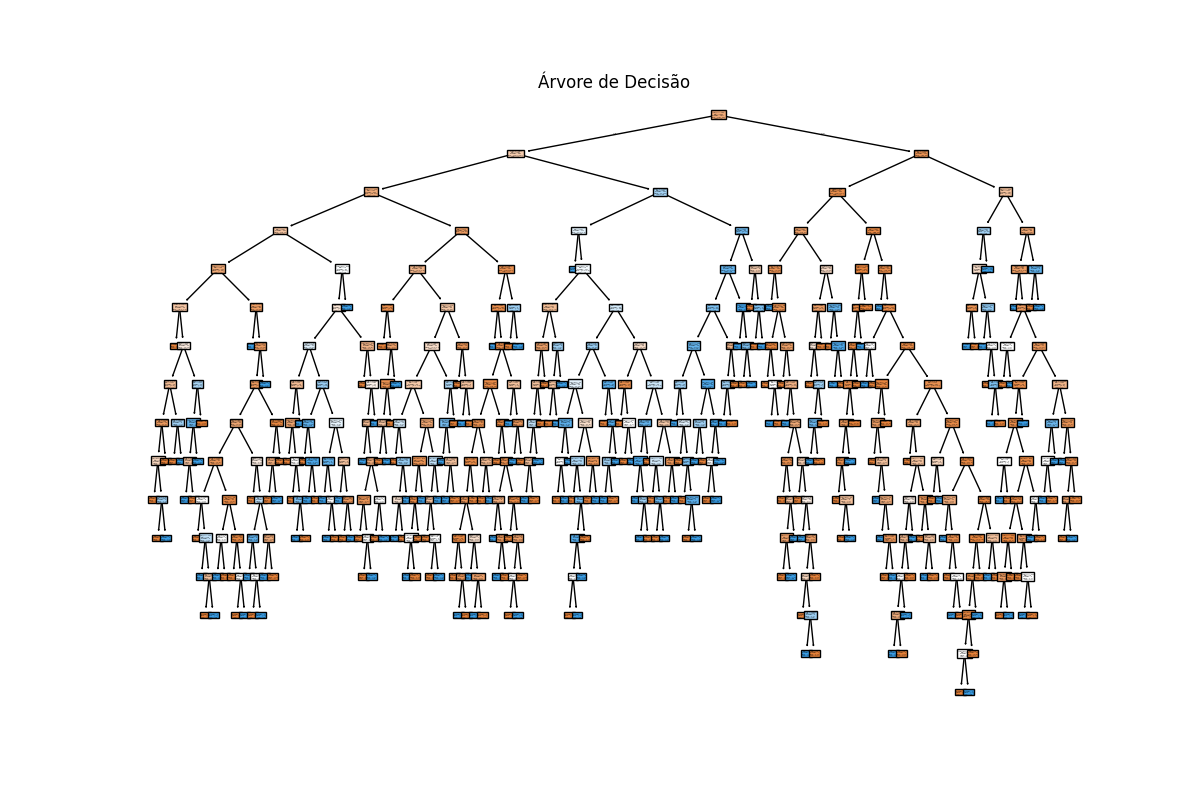
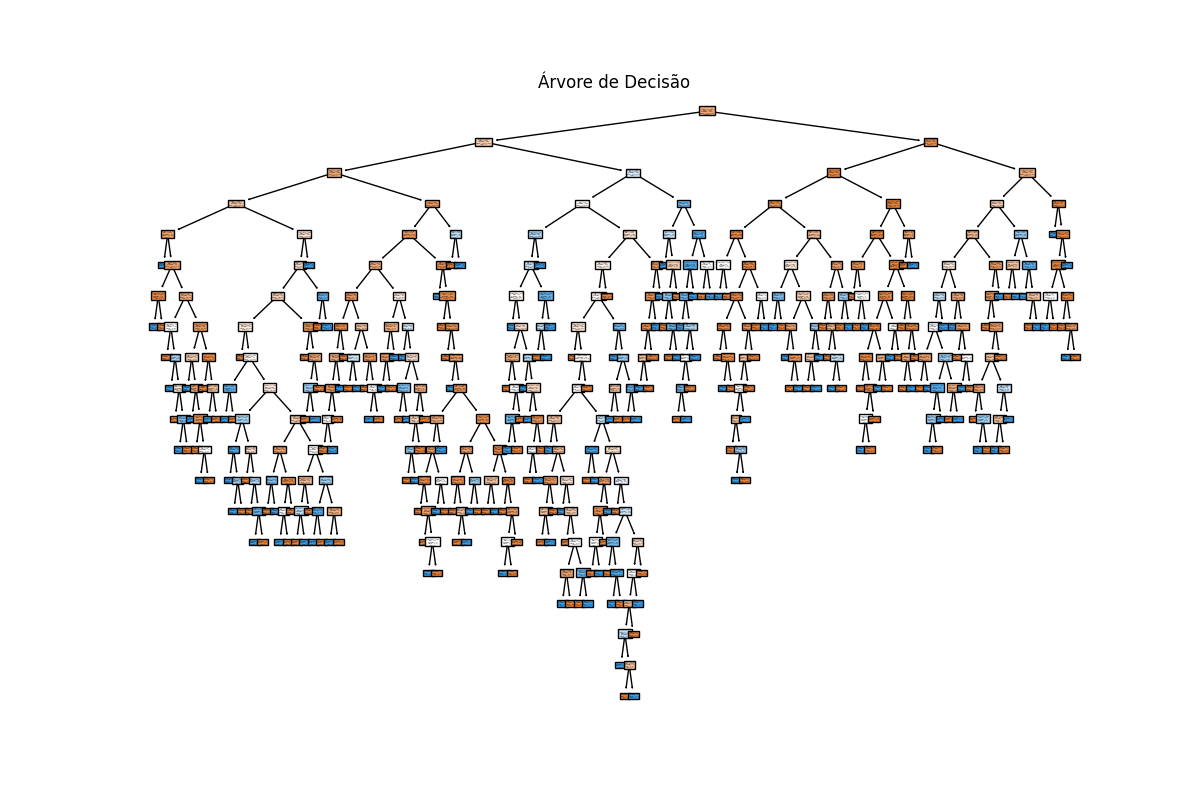
:wrench: feat: Atualização dos outputs

diff --git a/SCRIPTS/floresta_randomica.py b/SCRIPTS/floresta_randomica.py
@@ -7,6 +7,7 @@ from sklearn.ensemble import RandomForestClassifier
 from sklearn.metrics import confusion_matrix, accuracy_score, classification_report
 from sklearn.tree import plot_tree
 import matplotlib.pyplot as plt
+import seaborn as sns
 import os
 
 # Variáveis globais
@@ -42,7 +43,7 @@ y = df['cancel']
 X_train, X_test, y_train, y_test = train_test_split(X, y, test_size=0.3, random_state=42)
 
 # Criar e treinar o modelo de Floresta Randômica
-clf = RandomForestClassifier(n_estimators=100, random_state=42)
+clf = RandomForestClassifier(n_estimators=50, max_depth=10, random_state=42)
 clf.fit(X_train, y_train)
 
 # Previsão
@@ -53,17 +54,26 @@ print("Matriz de Confusão:\n", confusion_matrix(y_test, y_pred))
 print("Acurácia:", accuracy_score(y_test, y_pred))
 print("Relatório de Classificação:\n", classification_report(y_test, y_pred))
 
-# Visualizar uma única árvore da floresta
-plt.figure(figsize=(12, 8))
-plot_tree(clf.estimators_[0], filled=True, feature_names=X.columns, class_names=label_encoders['cancel'].classes_)
-plt.title("Árvore da Floresta Randômica (Primeira Árvore)")
+# Visualizar matriz de confusão
+cm = confusion_matrix(y_test, y_pred)
+plt.figure(figsize=(6, 5))
+sns.heatmap(cm, annot=True, fmt='d', cmap='Blues', xticklabels=label_encoders['cancel'].classes_, yticklabels=label_encoders['cancel'].classes_)
+plt.title('Matriz de Confusão - Floresta Randômica')
+plt.xlabel('Previsão')
+plt.ylabel('Verdadeiro')
 plt.show()
 
-# Plotar importância das features
-plt.figure(figsize=(10, 6))
-feature_importance = pd.Series(clf.feature_importances_, index=X.columns).sort_values(ascending=False)
-feature_importance.plot(kind='bar')
-plt.title("Importância das Features na Floresta Randômica")
-plt.xlabel("Features")
-plt.ylabel("Importância")
-plt.show()
+# # Visualizar uma única árvore da floresta
+# plt.figure(figsize=(12, 8))
+# plot_tree(clf.estimators_[0], filled=True, feature_names=X.columns, class_names=label_encoders['cancel'].classes_)
+# plt.title("Árvore da Floresta Randômica (Primeira Árvore)")
+# plt.show()
+
+# # Plotar importância das features
+# plt.figure(figsize=(10, 6))
+# feature_importance = pd.Series(clf.feature_importances_, index=X.columns).sort_values(ascending=False)
+# feature_importance.plot(kind='bar')
+# plt.title("Importância das Features na Floresta Randômica")
+# plt.xlabel("Features")
+# plt.ylabel("Importância")
+# plt.show()

diff --git a/SCRIPTS/arvore_decisao.py b/SCRIPTS/arvore_decisao.py
@@ -5,6 +5,7 @@ from sklearn.model_selection import train_test_split
 from sklearn.preprocessing import LabelEncoder
 from sklearn.tree import DecisionTreeClassifier, plot_tree
 from sklearn.metrics import confusion_matrix, accuracy_score, classification_report
+import seaborn as sns
 import matplotlib.pyplot as plt
 
 # Carregar o dataset
@@ -18,7 +19,7 @@ base_dir = os.path.abspath(os.path.join(os.getcwd(), ".."))
 db_dir = os.path.join(base_dir, "DADOS")
 os.makedirs(db_dir, exist_ok=True)
 
-file_path = os.path.join(db_dir, 'p33.xlsx')
+file_path = os.path.join(db_dir, 'p33_clean.xlsx')
 df = pd.read_excel(file_path, 'TECAL')
 
 # Exibir as primeiras linhas do dataframe
@@ -36,7 +37,7 @@ for col in CATEGORICAS:
     label_encoders[col] = le
 
 # Separar variáveis independentes e dependentes
-X = df.drop(['id', 'cancel'], axis=1)
+X = df.drop(['cancel'], axis=1)
 y = df['cancel']
 
 # Dividir os dados em treino e teste
@@ -53,6 +54,15 @@ y_pred = clf.predict(X_test)
 print("Matriz de Confusão:\n", confusion_matrix(y_test, y_pred))
 print("Acurácia:", accuracy_score(y_test, y_pred))
 print("Relatório de Classificação:\n", classification_report(y_test, y_pred))
+
+# Visualizar matriz de confusão
+cm = confusion_matrix(y_test, y_pred)
+plt.figure(figsize=(6, 5))
+sns.heatmap(cm, annot=True, fmt='d', cmap='Blues', xticklabels=label_encoders['cancel'].classes_, yticklabels=label_encoders['cancel'].classes_)
+plt.title('Matriz de Confusão - Árvore de Decisão')
+plt.xlabel('Previsão')
+plt.ylabel('Verdadeiro')
+plt.show()
 
 # Visualizar a árvore de decisão
 plt.figure(figsize=(12, 8))

diff --git a/SCRIPTS/svm.py b/SCRIPTS/svm.py
@@ -18,7 +18,7 @@ base_dir = os.path.abspath(os.path.join(os.getcwd(), ".."))
 db_dir = os.path.join(base_dir, "DADOS")
 os.makedirs(db_dir, exist_ok=True)
 
-file_path = os.path.join(db_dir, 'p33.xlsx')
+file_path = os.path.join(db_dir, 'p33_clean.xlsx')
 df = pd.read_excel(file_path, 'TECAL')
 
 # Exibir as primeiras linhas do dataframe
@@ -36,7 +36,7 @@ for col in CATEGORICAS:
     label_encoders[col] = le
 
 # Separar variáveis independentes e dependentes
-X = df.drop(['id', 'cancel'], axis=1)
+X = df.drop(['cancel'], axis=1)
 y = df['cancel']
 
 # Escalonar as features (essencial para SVM)
@@ -47,7 +47,7 @@ X = scaler.fit_transform(X)
 X_train, X_test, y_train, y_test = train_test_split(X, y, test_size=0.3, random_state=42)
 
 # Criar e treinar o modelo SVM
-clf = SVC(kernel='rbf', C=1.0, random_state=42)
+clf = SVC(kernel='rbf', C=1.0, max_iter=100, random_state=42)
 clf.fit(X_train, y_train)
 
 # Previsão
@@ -60,7 +60,7 @@ print("Relatório de Classificação:\n", classification_report(y_test, y_pred))
 
 # 1. Heatmap da Matriz de Confusão
 cm = confusion_matrix(y_test, y_pred)
-plt.figure(figsize=(8, 6))
+plt.figure(figsize=(6,5))
 sns.heatmap(cm, annot=True, fmt='d', cmap='Blues', xticklabels=label_encoders['cancel'].classes_, yticklabels=label_encoders['cancel'].classes_)
 plt.title('Matriz de Confusão - SVM')
 plt.xlabel('Previsão')

diff --git a/SCRIPTS/rede_neural.py b/SCRIPTS/rede_neural.py
@@ -40,7 +40,7 @@ for col in CATEGORICAS:
 # =============================================
 # Separação das variáveis independentes e dependente
 # =============================================
-X = df.drop(['renda', 'debaut', 'cancel'], axis=1)
+X = df.drop(['cancel'], axis=1)
 y = df['cancel']
 
 # Normalização
@@ -57,7 +57,7 @@ mlp = MLPClassifier(
     hidden_layer_sizes=(int(input("Neurons:")),),
     activation='relu', 
     solver='adam',                
-    max_iter=300, 
+    max_iter=100, 
     random_state=42)
 
 mlp.fit(X_train, y_train)
@@ -79,7 +79,7 @@ print(classification_report(y_test, y_pred))
 # Visualização - Heatmap da Matriz de Confusão
 # =============================================
 cm = confusion_matrix(y_test, y_pred)
-plt.figure(figsize=(8, 6))
+plt.figure(figsize=(6,5))
 sns.heatmap(cm, annot=True, fmt='d', cmap='Purples',
             xticklabels=label_encoders['cancel'].classes_,
             yticklabels=label_encoders['cancel'].classes_)

diff --git a/SCRIPTS/knn.py b/SCRIPTS/knn.py
@@ -56,7 +56,7 @@ X = scaler.fit_transform(X)
 X_train, X_test, y_train, y_test = train_test_split(X, y, test_size=0.3, random_state=42)
 
 # Criar e treinar o modelo KNN
-clf = KNeighborsClassifier(n_neighbors=5)
+clf = KNeighborsClassifier(n_neighbors=69)
 clf.fit(X_train, y_train)
 
 # Previsão
@@ -69,9 +69,9 @@ print("Relatório de Classificação:\n", classification_report(y_test, y_pred))
 
 # 1. Heatmap da Matriz de Confusão
 cm = confusion_matrix(y_test, y_pred)
-plt.figure(figsize=(8, 6))
+plt.figure(figsize=(6,5))
 sns.heatmap(cm, annot=True, fmt='d', cmap='Blues', xticklabels=label_encoders['cancel'].classes_, yticklabels=label_encoders['cancel'].classes_)
-plt.title('Matriz de Confusão')
+plt.title('Matriz de Confusão - KNN')
 plt.xlabel('Previsão')
 plt.ylabel('Verdadeiro')
 plt.show()

diff --git a/SCRIPTS/regressao_logistica.py b/SCRIPTS/regressao_logistica.py
@@ -43,7 +43,7 @@ X_train, X_test, y_train, y_test = train_test_split(X, y, test_size=0.2, random_
 
 # 6. Cria e treina o modelo de regressão logística
 #modelo = LogisticRegression()
-modelo = LogisticRegression(class_weight='balanced', max_iter=5000)
+modelo = LogisticRegression(class_weight='balanced', max_iter=5000, C=0.3)
 modelo.fit(X_train, y_train)
 
 # 7. Faz previsões com os dados de teste
@@ -132,7 +132,7 @@ plt.show()
 
 # 1. Heatmap da Matriz de Confusão
 cm = confusion_matrix(y_test, y_pred)
-plt.figure(figsize=(8, 6))
+plt.figure(figsize=(6, 5))
 sns.heatmap(cm, annot=True, fmt='d', cmap='Blues', xticklabels=label_encoders['cancel'].classes_, yticklabels=label_encoders['cancel'].classes_)
 plt.title('Matriz de Confusão - Regressão Logística')
 plt.xlabel('Previsão')
